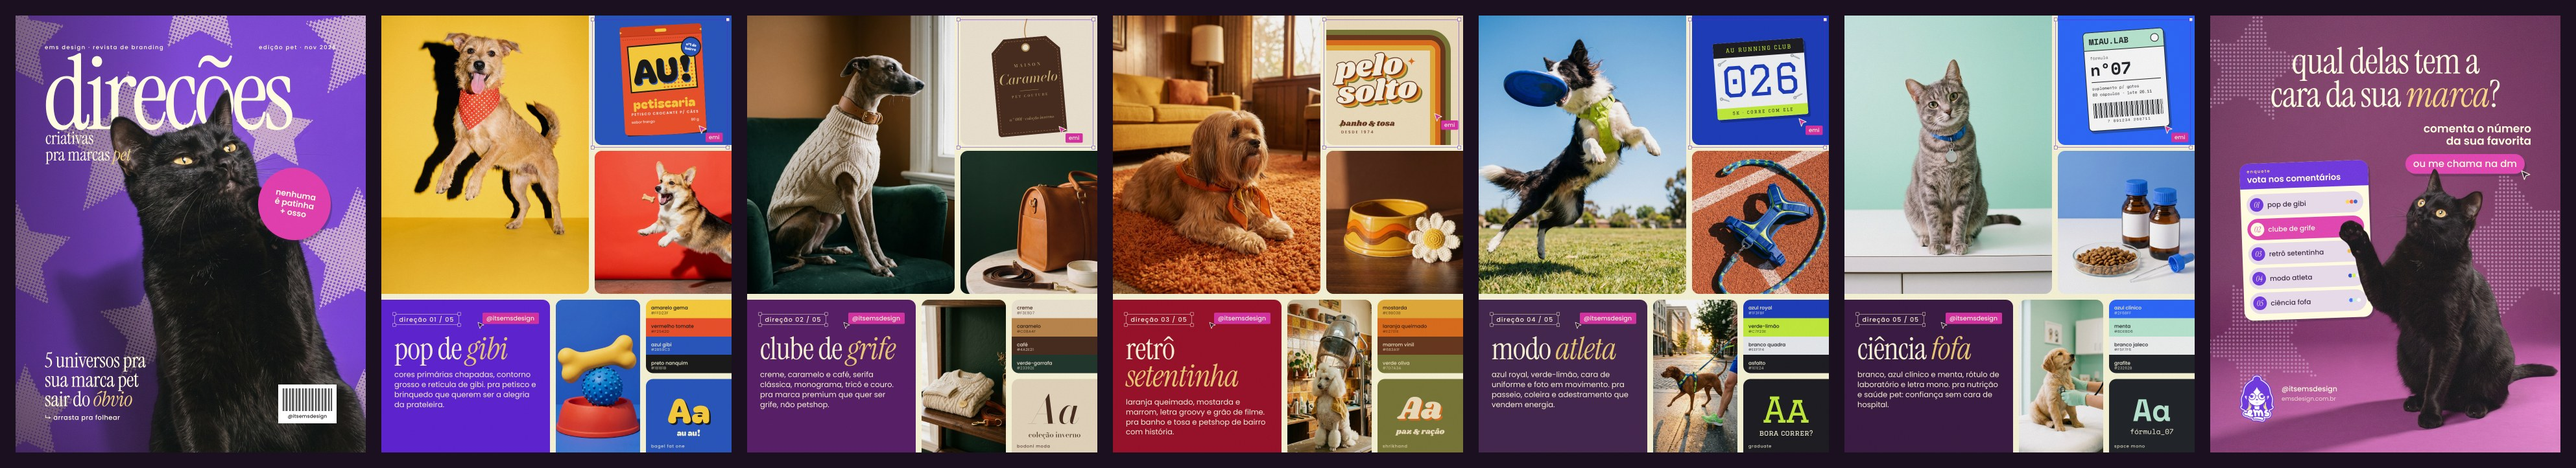
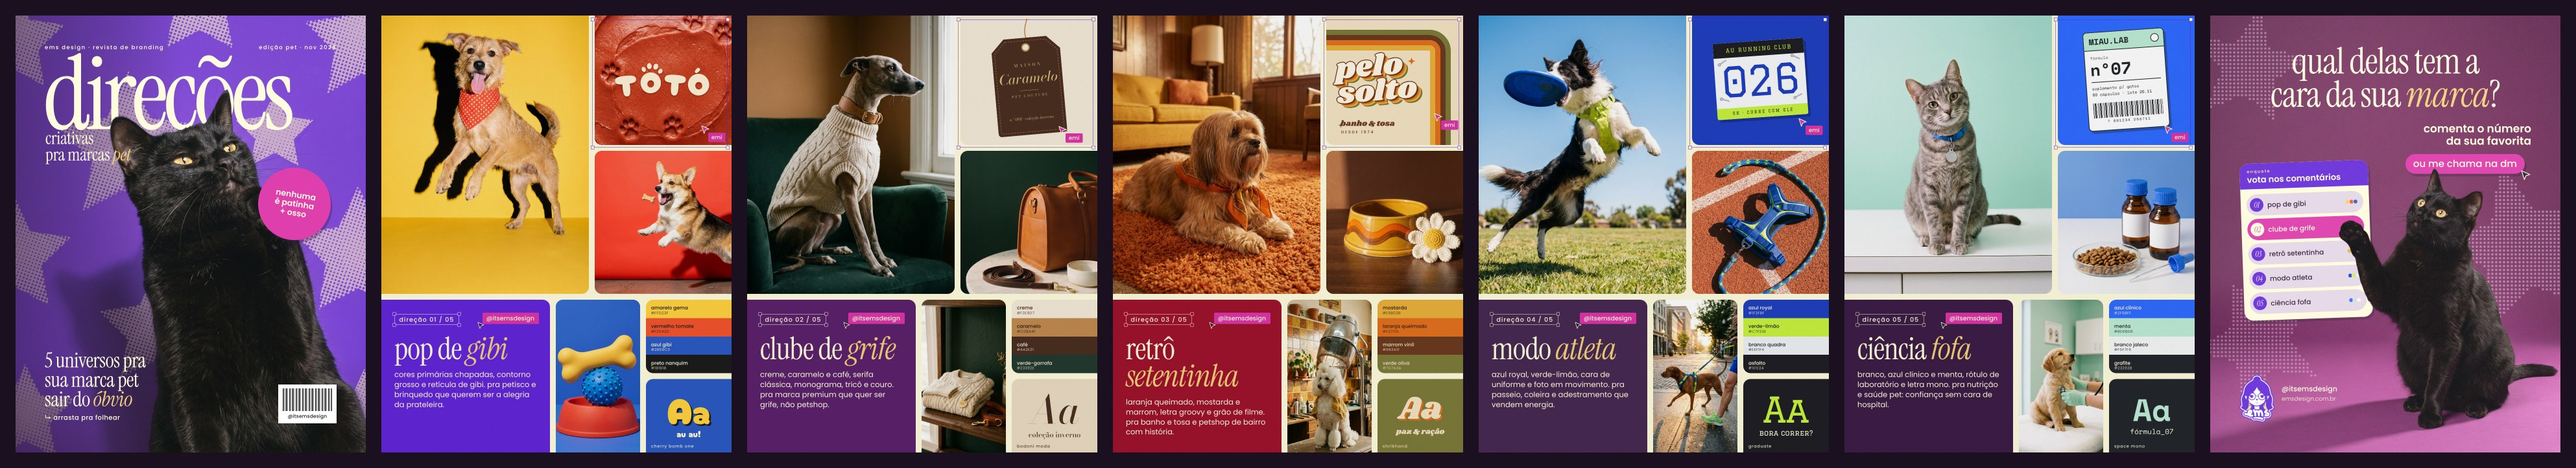
EMS carrossel pet: TOTÓ (versão B, aprovada) no lugar do AU! na lâmina 02
- quadro da marca: logo creme sobre a massa vermelha com patinhas
  (img/toto-marca.jpg, gerado por marcas/toto/logo.html)
- amostra de letra da direção: Cherry Bomb One
- logo.html aceita escala, deslocamento e tamanho do palco

Claude-Session: https://claude.ai/code/session_01CmCiK9WG5RWJH1hBNUU9U9

Changed region(s): [[0.2185, 0.0304, 0.3122, 0.3347], [0.2497, 0.852, 0.281, 0.9433]]

diff --git a/Emi/ems-5-direcoes-pet/projeto/direcoes.js b/Emi/ems-5-direcoes-pet/projeto/direcoes.js
@@ -119,11 +119,13 @@ const DIRECOES = [
     titulo: 'pop de <em>gibi</em>', pra: 'petisco e brinquedo', card: 'var(--violeta)',
     texto: 'cores primárias chapadas, contorno grosso e retícula de gibi. pra petisco e brinquedo que querem ser a alegria da prateleira.',
     heroi: { bg: '#FFD23F', cheia: { src: 'd1pet-2', px: .5, py: .3 } },
-    marca: { bg: '#2B59C3', html: MARCA.gibi, cursor: [318, 338] },
+    // TOTÓ (aprovado em 12/11, a partir da referência NOSY): logo creme sobre massa vermelha com patinhas.
+    // Arte em marcas/toto/logo.html (?pata=anel); a imagem do quadro é gerada por ela (img/toto-marca.jpg).
+    marca: { bg: '#F2542D', cheia: { src: 'toto-marca', px: .5, py: .5 }, cursor: [326, 338] },
     quadrado: { bg: '#F2542D', cheia: { src: 'd1extra', px: .04, py: .5 } },
     alto: { bg: '#2B59C3', cheia: { src: 'd1prod-1', px: .5, py: .45 } },
     paleta: [['amarelo gema', '#FFD23F', '#1B1B1B'], ['vermelho tomate', '#F2542D', '#1B1B1B'], ['azul gibi', '#2B59C3', '#FFFBDE'], ['preto nanquim', '#1B1B1B', '#FFFBDE']],
-    tipo: { bg: '#2B59C3', aa: "400 104px 'Bagel Fat One'", aaCor: '#FFD23F', sombra: '5px 5px 0 #1B1B1B', amostra: 'au au!', amostraCss: "400 26px 'Bagel Fat One'", cor: '#FFFBDE', nome: 'bagel fat one' },
+    tipo: { bg: '#2B59C3', aa: "400 112px 'Cherry Bomb One'", aaCor: '#FFD23F', sombra: '5px 5px 0 #1B1B1B', amostra: 'au au!', amostraCss: "400 28px 'Cherry Bomb One'", cor: '#FFFBDE', nome: 'cherry bomb one' },
   },
   // ---------------- 02 · clube de grife ----------------
   {

diff --git a/Emi/ems-5-direcoes-pet/projeto/marcas/toto/logo.html b/Emi/ems-5-direcoes-pet/projeto/marcas/toto/logo.html
@@ -39,5 +39,7 @@ const fundo = q.get('fundo') || 'textura';
 raiz.setProperty('--fundo', fundo === 'textura' ? 'url(textura-massa.png)' : fundo);
 raiz.setProperty('--cor', q.get('cor') || '#FFF1D6');
 if (q.get('pata') === 'anel') document.querySelector('.logo').classList.add('anel');
+if (q.get('escala')) Object.assign(document.querySelector('.logo').style, { position: 'absolute', left: '50%', top: '50%', transform: `translate(calc(-50% + ${q.get('dx') || 0}px), calc(-50% + ${q.get('dy') || 0}px)) scale(${q.get('escala')})` });
+if (q.get('w')) { const pc = document.querySelector('.palco'); pc.style.width = q.get('w') + 'px'; pc.style.height = q.get('h') + 'px'; }
 raiz.setProperty('--sombra', fundo === 'textura' ? 'drop-shadow(0 6px 6px rgba(90,20,5,.45)) drop-shadow(0 1px 1px rgba(90,20,5,.5))' : 'none');
 </script></body></html>

diff --git a/Emi/ems-5-direcoes-pet/projeto/estilo.css b/Emi/ems-5-direcoes-pet/projeto/estilo.css
@@ -7,6 +7,7 @@
 @font-face { font-family: "Instrument Serif"; src: url(fonts/InstrumentSerif-Regular.ttf); font-style: normal; }
 @font-face { font-family: "Instrument Serif"; src: url(fonts/InstrumentSerif-Italic.ttf); font-style: italic; }
 /* fontes das direções: só dentro dos quadros do moodboard, nunca no texto da EMS */
+@font-face { font-family: "Cherry Bomb One"; src: url(fonts/CherryBombOne-Regular.ttf); }
 @font-face { font-family: "Bagel Fat One"; src: url(fonts/BagelFatOne-normal-400.woff2); }
 @font-face { font-family: "Bodoni Moda"; src: url(fonts/BodoniModa-normal-500.woff2); font-style: normal; font-weight: 500; }
 @font-face { font-family: "Bodoni Moda"; src: url(fonts/BodoniModa-italic-500.woff2); font-style: italic; font-weight: 500; }

diff --git a/Emi/ems-5-direcoes-pet/projeto/carrossel.html b/Emi/ems-5-direcoes-pet/projeto/carrossel.html
@@ -126,7 +126,7 @@ const GRADE = {
 function laminaDirecao(d, i) {
   const s = el('section', 'slide dir'); s.dataset.nome = `lamina-${num(i + 2)}`;
   bloco(s, { r: GRADE.heroi, ...d.heroi });
-  bloco(s, { r: GRADE.marca, bg: d.marca.bg, padrao: d.marca.padrao, html: d.marca.html, escolhido: d.marca.cursor });
+  bloco(s, { r: GRADE.marca, bg: d.marca.bg, padrao: d.marca.padrao, html: d.marca.html, cheia: d.marca.cheia, escolhido: d.marca.cursor });
   bloco(s, { r: GRADE.quadrado, ...d.quadrado });
   bloco(s, { r: GRADE.alto, ...d.alto });
   bloco(s, { r: GRADE.paleta, bg: '#fff', html: paleta(d.paleta) });
